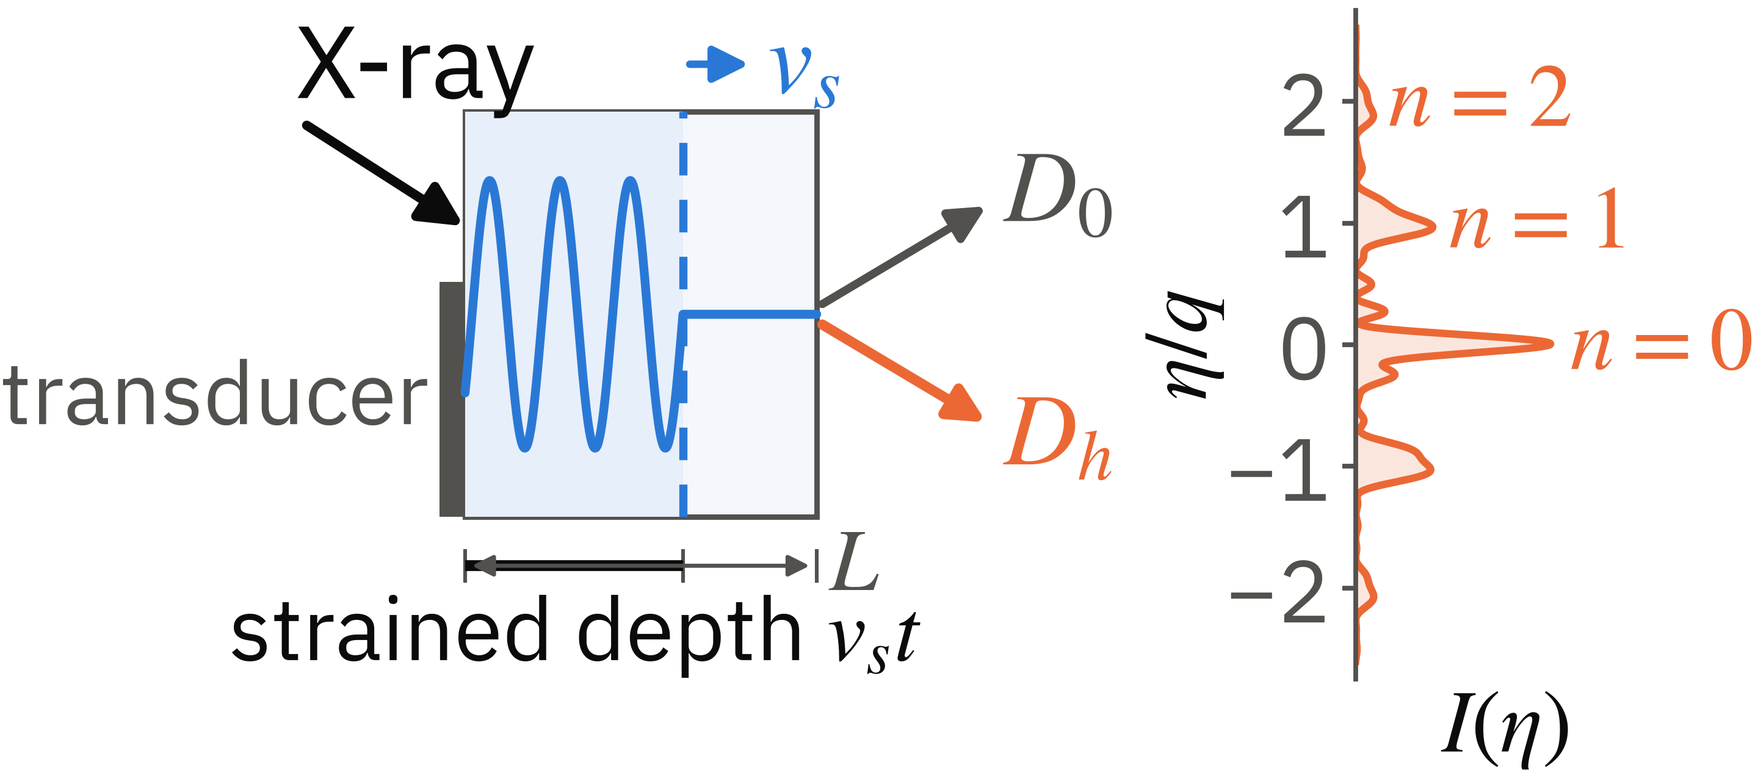
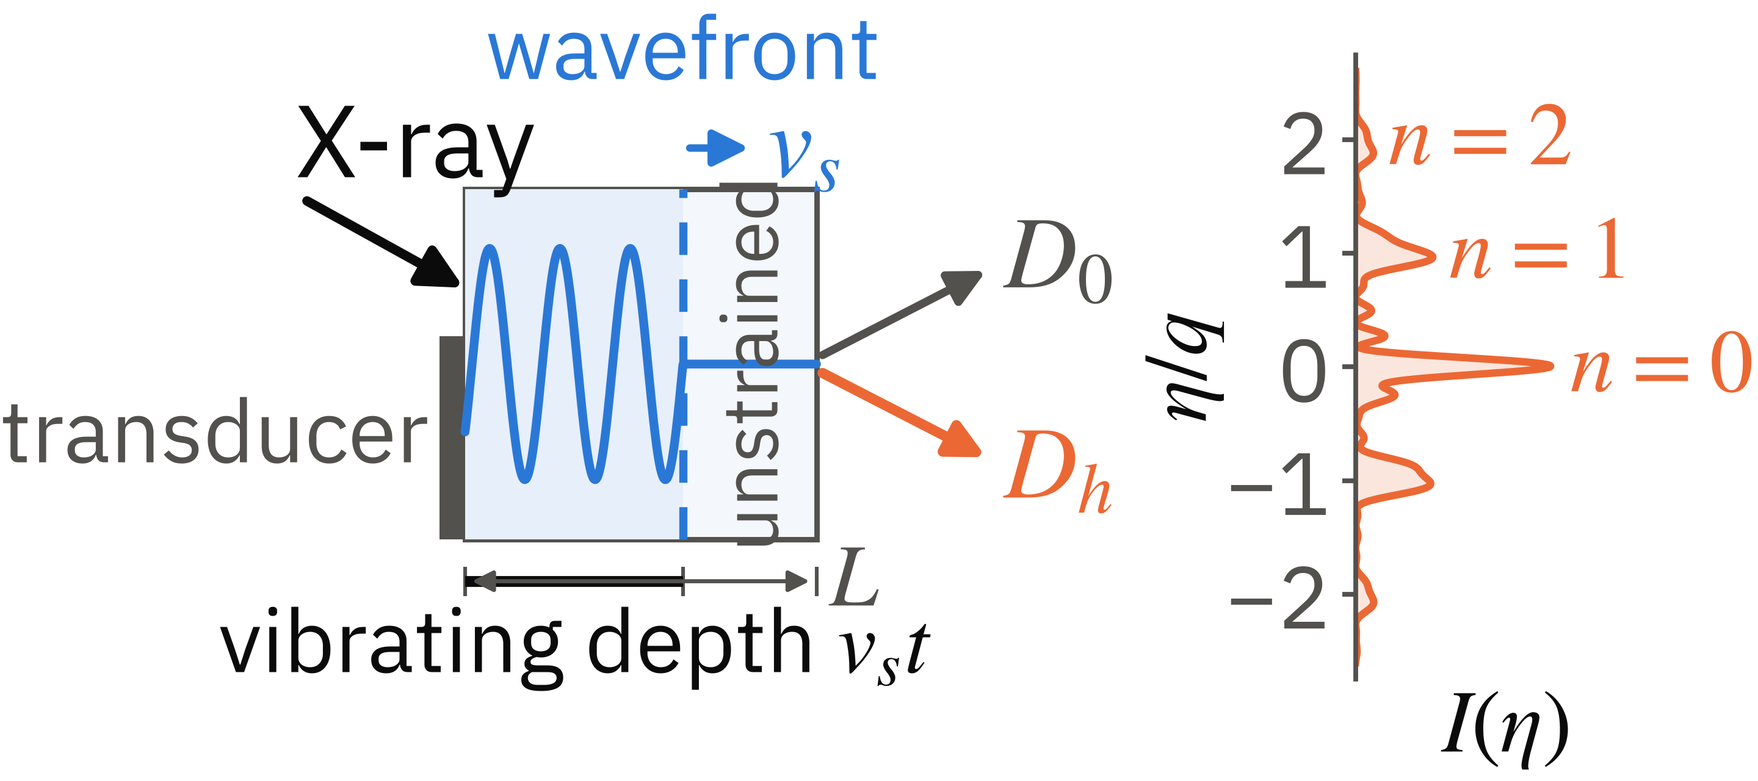
poster: final version with onset strips, method steps and 300 dpi PDF

diff --git a/poster/build.py b/poster/build.py
@@ -33,6 +33,7 @@ Manuscript syntax
   "- text"        bullet                                  "![caption](path)" figure (width = card)
   "%% value | label"  stat tile (consecutive lines form one row)
   "$$ text"       display line: centred, slightly larger, with space around it (equations)
+  "=> a | b | c"  flow diagram: boxes joined by arrows, a loop arrow back to the first box
   {E12}           notebook entry tag (stripped from print, required on every item)
 
 Checks
@@ -89,10 +90,10 @@ NOTEBOOK = ROOT / "notes" / "lab_notebook.md"
 # A0 portrait, same as the ICAMD 2025 poster (841 x 1189 mm). Check the KPS rule before printing.
 SPEC = dict(
     W=841, H=1189, margin=16, gap=14, cols=2, pad=11,
-    header_h=130, stripe_h=5, footer_h=58,
+    header_h=110, stripe_h=5, footer_h=53,
     title_pt=52, authors_pt=30, head_pt=40, badge_pt=30, body_pt=28, callout_pt=29, caption_pt=23,
     stat_pt=36, stat_label_pt=23, eq_pt=30, min_pt=23,
-    leading=1.3, para_gap=6, side_text=0.52, panel_gap=9, fig_gap=4,
+    leading=1.3, para_gap=6, side_text=0.64, panel_gap=8, fig_gap=4,
     navy="#0f2a3a", accent="#e8743b", page="#ffffff", card="#ffffff", edge="#7d868f", key="#fbf1d9",
     ink="#111111", ink2="#4f5560", tint="#f2f4f7",
     stripe=("#3a3a3a", "#e04b3a", "#f08a3c"),
@@ -144,6 +145,11 @@ def parse(text):
                 b = " ".join(b.split())
                 cur["items"].append(dict(kind="bullet", text=TAG.sub("", b).strip(), tags=TAG.findall(b)))
             continue
+        if block.startswith("=>"):
+            t = " ".join(block[2:].split())
+            cur["items"].append(dict(kind="flow", boxes=[b.strip() for b in TAG.sub("", t).split("|")],
+                                     tags=TAG.findall(t)))
+            continue
         if block.startswith("$$"):
             t = " ".join(block[2:].split())
             cur["items"].append(dict(kind="eq", text=TAG.sub("", t).strip(), tags=TAG.findall(t)))
@@ -192,7 +198,7 @@ class Page:
             prev = m.end()
             s, wgt, col = m[0], weight, color
             if s.startswith("**"):
-                s, wgt, col = s[2:-2], "medium", strong or color
+                s, wgt, col = s[2:-2], "semibold", strong or color
             toks.append((s, wgt, col, glue))
         lines, line, lw = [], [], 0.0
         for s, wgt, col, g in toks:
@@ -251,7 +257,7 @@ def bullet(P, it, x, y, w, draw=True):
         mid = y + s["body_pt"] * PT_MM * (1 - XH / 2)       # middle of the x-height of the first line
         P.box(x + 0.5, mid - d / 2, d, d, s["ink"], r=0, z=3)
     return P.flow(it["text"], x, y, w, s["body_pt"], indent=7, draw=draw,
-                  strong=s["accent"]) + s["para_gap"]
+                  strong=s["navy"]) + s["para_gap"]
 
 
 def callout(P, it, x, y, w, draw=True):
@@ -285,7 +291,34 @@ def stats(P, it, x, y, w, draw=True):
 
 def equation(P, it, x, y, w, draw=True):
     s = SPEC
-    return P.flow(it["text"], x, y + 1.5, w, s["eq_pt"], align="center", draw=draw) + s["para_gap"] + 2.5
+    return P.flow(it["text"], x, y + 1, w, s["eq_pt"], align="center", draw=draw) + s["para_gap"] + 1.5
+
+
+def flow_diagram(P, it, x, y, w, draw=True):
+    """Boxes left to right joined by arrows, with a return arrow underneath (one loop per time step)."""
+    s = SPEC
+    n, aw, pt = len(it["boxes"]), 9.0, s["caption_pt"]
+    bw = (w - (n - 1) * aw) / n
+    h = max(P.flow(b, 0, 0, bw - 4, pt, align="center", draw=False) for b in it["boxes"]) + 6
+    if draw:
+        for i, b in enumerate(it["boxes"]):
+            bx = x + i * (bw + aw)
+            P.box(bx, y, bw, h, s["key"], r=0, z=2)
+            th = P.flow(b, 0, 0, bw - 4, pt, align="center", draw=False)
+            P.flow(b, bx + 2, y + (h - th) / 2, bw - 4, pt, align="center")
+            if i < n - 1:
+                P.ax.annotate("", xy=(bx + bw + aw - 0.5, y + h / 2), xytext=(bx + bw + 0.5, y + h / 2),
+                              arrowprops=dict(arrowstyle="-|>", color=s["accent"], lw=2.2, mutation_scale=16),
+                              zorder=3)
+        ly = y + h + 7                                      # loop: next time step
+        P.ax.plot([x + w - bw / 2, x + w - bw / 2, x + bw / 2], [y + h, ly, ly], color=s["ink2"], lw=1.6,
+                  zorder=3)
+        P.ax.annotate("", xy=(x + bw / 2, y + h + 0.3), xytext=(x + bw / 2, ly),
+                      arrowprops=dict(arrowstyle="-|>", color=s["ink2"], lw=1.6, mutation_scale=14), zorder=3)
+        P.ax.text(x + w / 2, ly, r"next $\tilde t$", fontsize=pt - 1, color=s["ink2"], family=FONT,
+                  ha="center", va="center", zorder=4,
+                  bbox=dict(facecolor="white", edgecolor="none", pad=1.5))
+    return y + h + 7 + 4 + s["para_gap"]
 
 
 def text_height(P, items, ix, iw):
@@ -300,9 +333,11 @@ def text_height(P, items, ix, iw):
             y = stats(P, it, ix, y, iw, draw=False)
         elif it["kind"] == "eq":
             y = equation(P, it, ix, y, iw, draw=False)
+        elif it["kind"] == "flow":
+            y = flow_diagram(P, it, ix, y, iw, draw=False)
         elif it["kind"] == "para":
             y = P.flow(it["text"], ix, y, iw, s["body_pt"], draw=False,
-                      strong=s["accent"]) + s["para_gap"]
+                      strong=s["navy"]) + s["para_gap"]
     return y
 
 
@@ -333,7 +368,10 @@ def build(preview_dpi=60, extra=None, save=True):
     ax.add_patch(plt.Rectangle((0, 0), W, H, color=s["page"], lw=0, zorder=0))
     ax.add_patch(plt.Rectangle((0, 0), W, s["header_h"], color=s["navy"], lw=0, zorder=1))
     if (ASSETS / "header_bg.png").exists():             # in the page axes, under the title text
-        ax.imshow(mpimg.imread(ASSETS / "header_bg.png"), extent=(0, W, s["header_h"], 0), aspect="auto",
+        bg = mpimg.imread(ASSETS / "header_bg.png")          # drawn for 130 mm; trim rows, never stretch
+        keep = min(bg.shape[0], round(bg.shape[0] * s["header_h"] / 130))
+        top = (bg.shape[0] - keep) // 2
+        ax.imshow(bg[top:top + keep], extent=(0, W, s["header_h"], 0), aspect="auto",
                   zorder=1.5, interpolation="lanczos")
         ax.set_xlim(0, W)
         ax.set_ylim(H, 0)
@@ -344,11 +382,11 @@ def build(preview_dpi=60, extra=None, save=True):
     logo_w = 0
     if (ASSETS / "logo_ihs.png").exists():                  # same size and inset as on the Oct 15 poster, mirrored
         logo_w = 100
-        P.image(ASSETS / "logo_ihs.png", W - 22.4 - 55.4, 22.1, 55.4, h=79.7)
+        P.image(ASSETS / "logo_ihs.png", W - 22.4 - 55.4, (s["header_h"] - 79.7) / 2, 55.4, h=79.7)
     if meta.get("session"):                                 # kept out of the way, in the empty left corner
         P.flow(meta["session"], M + 6, 14, 150, s["caption_pt"], "#9fb3c2")
     tw = W - 2 * M - 2 * logo_w
-    y = 20 - s["title_pt"] * PT_MM * (s["leading"] - 1)
+    y = 15 - s["title_pt"] * PT_MM * (s["leading"] - 1)
     for line in meta.get("title", "").split("//"):           # "//" in the title = manual line break
         y = P.flow(line.strip(), M + logo_w, y + s["title_pt"] * PT_MM * (s["leading"] - 1), tw, s["title_pt"],
                    "white", weight="semibold", align="center") - s["title_pt"] * PT_MM * 0.35
@@ -450,9 +488,11 @@ def build(preview_dpi=60, extra=None, save=True):
                 y = stats(P, it, ix, y, iw)
             elif it["kind"] == "eq":
                 y = equation(P, it, ix, y, iw)
+            elif it["kind"] == "flow":
+                y = flow_diagram(P, it, ix, y, iw)
             else:
                 y = P.flow(it["text"], ix, y, iw, s["body_pt"],
-                           strong=s["accent"]) + s["para_gap"]
+                           strong=s["navy"]) + s["para_gap"]
         if side:
             y = max(y, fyy - s["fig_gap"])
         y += s["pad"] - s["para_gap"]
@@ -477,7 +517,7 @@ def build(preview_dpi=60, extra=None, save=True):
         plt.close(P.fig)
         return [lf / (n - 1) if n > 1 and lf > 0 else 0.0 for lf, n in zip(left, count)]
     OUT.mkdir(exist_ok=True)
-    P.fig.savefig(OUT / "poster.pdf")
+    P.fig.savefig(OUT / "poster.pdf", dpi=300)       # raster figures are resampled to this; text stays vector
     P.fig.savefig(OUT / "poster.png", dpi=preview_dpi)
     print("column space distributed between panels (mm per gap): " +
           "  ".join(f"{i + 1}: {e:.0f}" for i, e in enumerate(extra)))

diff --git a/explore/make_poster_figs.py b/explore/make_poster_figs.py
@@ -12,6 +12,7 @@ f5  outlook: Fourier weight / kinematic law (Entry 59, e58 data) and the satelli
     first-order forms against full TT (Entry 64, e64_sw.json); reads stored results only
 f6  introductory Bessel coupling weights for a sinusoidal grating
 f7  linear-ramp overshoot map and three TT-checked traces (Entry 67)
+f8  envelope strips for the two result panels: step (Drive, rise = 0) and linear ramp (Entry 67)
 """
 
 from __future__ import annotations
@@ -84,7 +85,7 @@ def f0():
         gridspec_kw=dict(width_ratios=[2.5, 1.0], wspace=0.0))
 
     # ---- left: the crystal in cross-section, with the real phase profile inside it
-    ax.set(xlim=(-3.3, 9.6), ylim=(-0.3, 9.6))
+    ax.set(xlim=(-3.3, 9.6), ylim=(-0.3, 10.4))
     ax.axis("off")
     x0, x1, y0, y1 = 0.0, 6.0, 2.1, 8.1            # slab; depth zeta runs left to right
     xf = x0 + t * (x1 - x0)                         # acoustic front
@@ -98,7 +99,6 @@ def f0():
     amp = 0.33 * (y1 - y0) / max(abs(phi).max(), 1e-9)
     ax.plot(x0 + zz * (x1 - x0), ymid + amp * phi, color=BLUE, lw=2.6, zorder=3,
             solid_capstyle="round")
-    ax.plot([xf, x1], [ymid, ymid], color=BLUE, lw=2.6, zorder=3, solid_capstyle="round")
     ax.plot([xf, xf], [y0, y1], color=BLUE, lw=2.4, ls=(0, (4, 3)), zorder=4)
 
     # transducer on the lower part of the entrance face, so the beam enters clear of it
@@ -107,10 +107,13 @@ def f0():
     ax.text(x0 - 0.62, 0.5 * (y0 + ty), "transducer", ha="right", va="center",
             fontsize=LAB, color=INK2)
 
-    # front marker
+    # front marker, and the two regions it separates
     ax.annotate("", xy=(xf + 1.25, y1 + 0.70), xytext=(xf, y1 + 0.70),
                 arrowprops=dict(arrowstyle="-|>", color=BLUE, lw=2.2, mutation_scale=22))
     ax.text(xf + 1.45, y1 + 0.70, r"$v_s$", color=BLUE, va="center", fontsize=KEY)
+    ax.text(xf, y1 + 1.55, "wavefront", color=BLUE, ha="center", va="bottom", fontsize=LAB)
+    ax.text(0.5 * (xf + x1) + 0.1, ymid, "unstrained", color=INK2, ha="center", va="center",
+            rotation=90, fontsize=LAB - 3)
 
     # one dimension row: the slab thickness, with the filled part picked out on the same line
     yd = y0 - 0.72
@@ -120,7 +123,7 @@ def f0():
         ax.plot([x, x], [yd - 0.22, yd + 0.22], color=INK2, lw=1.1)
     ax.plot([x0, xf], [yd, yd], color=INK, lw=3.2, solid_capstyle="butt")
     ax.text(x1 + 0.22, yd, r"$L$", ha="left", va="center", fontsize=LAB, color=INK2)
-    ax.text(0.5 * (x0 + xf), yd - 0.38, r"strained depth $v_s t$", ha="center", va="top",
+    ax.text(0.5 * (x0 + xf), yd - 0.38, r"vibrating depth $v_s t$", ha="center", va="top",
             fontsize=LAB, color=INK)
 
     # beams: in above the transducer, forward and diffracted out
@@ -321,7 +324,7 @@ def f7():
     style()
     data = np.load(ROOT / "explore" / "nb" / "e67_overshoot.npz")
     summary = json.loads((ROOT / "explore" / "nb" / "e67_overshoot.json").read_text())
-    fig = plt.figure(figsize=(FIG_W, 8.0), constrained_layout=True)
+    fig = plt.figure(figsize=(FIG_W, 10.2), constrained_layout=True)
     grid = fig.add_gridspec(2, 3, height_ratios=[1.4, 1])
     ax = fig.add_subplot(grid[0, :])
     im = ax.pcolormesh(data["S"], data["rise"], data["excess"], shading="nearest",
@@ -363,6 +366,37 @@ def f7():
     print("wrote", OUT / "f7_overshoot.png")
 
 
+def f8():
+    """Envelope strips that open the two result panels, drawn from the envelopes the results used:
+    the step of `Drive` (rise = 0, Entries 1 and 9) and the linear ramp of memory_drive.ramp (Entry 67)."""
+    sys.path.insert(0, str(ROOT / "explore" / "nb"))
+    from memory_drive import ramp
+
+    style()
+    s = np.linspace(-0.6, 2.6, 801)
+    for name, A, color, text in (
+            ("f8_onset_step", Drive(S=1.0, alpha_ac=20.0).envelope(s), BLUE,
+             r"Sudden onset: $A(s)=1$ for $s\geq0$,  $s=\tilde t-\zeta$"),
+            ("f8_onset_ramp", ramp(1.5)(s) * (s >= 0), ORANGE,
+             r"Gradual onset: $A(s)=\min(s/T_{rise},\,1)$ for $s\geq0$")):
+        fig = plt.figure(figsize=(FIG_W, 0.95))
+        ax = fig.add_axes([0.035, 0.30, 0.20, 0.62])
+        ax.plot(s, A, color=color, lw=3.2)
+        ax.set(xlim=(-0.6, 2.6), ylim=(-0.15, 1.75), xticks=[0], yticks=[0, 1])
+        ax.set_xticklabels([r"$0$"])
+        ax.tick_params(labelsize=SMALL - 2, length=4, pad=2)
+        ax.text(1.03, 0.04, r"$s$", transform=ax.transAxes, fontsize=SMALL - 2, va="center")
+        ax.set_ylabel(r"$A$", fontsize=SMALL - 2, rotation=0, labelpad=10, va="center")
+        if "ramp" in name:
+            ax.annotate("", xy=(1.5, 1.25), xytext=(0, 1.25),
+                        arrowprops=dict(arrowstyle="<|-|>", color=INK2, lw=1.2, mutation_scale=12))
+            ax.text(0.75, 1.3, r"$T_{rise}$", ha="center", va="bottom", fontsize=SMALL - 2, color=INK2)
+        fig.text(0.27, 0.55, text, fontsize=BIG, va="center", color=INK)
+        OUT.mkdir(parents=True, exist_ok=True)
+        fig.savefig(OUT / f"{name}.png")
+        print("wrote", OUT / f"{name}.png")
+
+
 if __name__ == "__main__":
-    for name in (sys.argv[1:] or ["f0", "f1", "f2", "f3", "f4", "f5", "f6", "f7"]):
+    for name in (sys.argv[1:] or ["f0", "f1", "f2", "f3", "f4", "f5", "f6", "f7", "f8"]):
         globals()[name]()

diff --git a/poster/poster.md b/poster/poster.md
@@ -8,89 +8,85 @@ footer: This work was supported by the National Research Foundation of Korea gra
 
 <!--
 Printed text source; build with python poster/build.py.
-Reading order: full-width background and question; left column theory, method and
-result 1; right column result 2, solver checks and conclusion. Numbers follow notes/tasks/poster_facts.md.
+Reading order: full-width introduction; left column model, method and formation dynamics;
+right column overshoot and conclusions. Numbers follow notes/tasks/poster_facts.md.
 -->
 
 @wide
 
-## Background: acoustic satellites and the question
+## Introduction
 
-**Acoustic satellites.** Sound displaces the lattice planes by $u$ and shifts the diffracted X-ray phase by $\phi=h u$. This moving phase grating adds satellites $n=\pm1,\pm2,\dots$ to the rocking curve $I(\eta)$ at $\eta=nq$, $q=2\pi L/\Lambda_{ac}$ ($\eta$: angle deviation, $L$: thickness, $\Lambda_{ac}$: acoustic wavelength). {E0}
+**Motivation.** Time-resolved X-ray diffraction can follow GHz acoustic waves in crystals: satellites form over a few ns, much longer than 50–100 ps synchrotron pulses, and a strain pulse entering a Laue crystal has been used to switch X-rays (DeCamp et al., Nature 413, 825 (2001)). {E6}{E7}{E21}
 
-**Steady state (known).** With sound in the whole crystal, $e^{i\phi}=\Sigma_n J_n(S)\,e^{in(q\zeta-q\tilde t)}$, $S=h u_0$. Satellite $n$ couples with strength $\alpha\left|J_n(S)\right|$, $\alpha=L/\Lambda_P$ ($\Lambda_P$: Pendellösung length). $J_n$ is a coupling weight; multiple scattering sets the intensity. Multi-wave theory: Polikarpov & Skadorov, phys. stat. sol. (b) 143, 11 (1987). {E0}{E7}{E29}
+**Acoustic satellites.** A displacement $u$ shifts the phase of the diffracted wave by $\phi=hu$, so a travelling acoustic wave acts as a moving phase grating with satellites $n=\pm1,\pm2,\dots$ at $\eta=nq$, $q=2\pi L/\Lambda_{ac}$ ($\eta$: angular deviation, $L$: thickness, $\Lambda_{ac}$: acoustic wavelength). In a filled crystal $e^{i\phi}=\Sigma_nJ_n(S)\,e^{in(q\zeta-q\tilde t)}$ with $S=hu_0$, and satellite $n$ couples with strength $\alpha\left|J_n(S)\right|$, $\alpha=L/\Lambda_P$ ($\Lambda_P$: Pendellösung length); its intensity follows from multiple scattering (Polikarpov & Skadorov, phys. stat. sol. (b) 143, 11 (1987)). {E0}{E7}{E29}
 
-**Before the steady state.** The front moves at $v_s$. For $t<t_{tr}=L/v_s$ only the depth $v_s t$ vibrates. {E0}{E7}
-
-> **Question.** How do the satellites form while the front crosses the crystal, and how does a gradual turn-on change their intensity in time? {E0}{E28}{E33}
+> **This work.** The Bessel-weighted coupling describes a crystal already filled with sound. While the wavefront enters ($t<t_{tr}=L/v_s$), the vibrating depth $v_st$ grows and the diffraction is dynamical, so we compute time-resolved rocking curves directly from the TT equations. {E0}{E7}{E28}{E33}
 
 ![](figures/poster/f0_scheme.png){E0}
 
 ![](figures/poster/f6_background.png){E0}{E7}
 
-## Theory and numerical method
+## Theoretical Model and Numerical Methods
 
-**1. Two-beam Takagi–Taupin (TT) equations.** Amplitudes $D_0$, $D_h$ vs depth $\zeta=z/L\in[0,1]$; $\eta$ in units of $1/L$: {E0}
+**1 Two-beam diffraction.** The X-ray field near a Bragg reflection consists of the transmitted wave $D_0$ and the diffracted wave $D_h$, which exchange intensity with depth $\zeta=z/L\in[0,1]$. They obey the coupled Takagi–Taupin (TT) equations: {E0}
 
 $$ $dD_0/d\zeta = i\pi\alpha\,e^{+i\phi}D_h,\qquad dD_h/d\zeta = i\pi\alpha\,e^{-i\phi}D_0 + i\eta D_h$ {E0}
 
-**2. Travelling sound as a phase field,** $\tilde t=t/t_{tr}$: {E0}
+$\pi\alpha$ couples the beams, $i\eta D_h$ is the angular detuning ($\eta$ in units of $1/L$), and the lattice displacement enters only as the phase $e^{\pm i\phi}$ of the coupling. {E0}
+
+**2 Travelling acoustic deformation,** with $\tilde t=t/t_{tr}$: {E0}
 
 $$ $\phi(\zeta,\tilde t)=S\,A(\tilde t-\zeta)\,\sin(q\zeta-q\tilde t)$ {E0}
 
-Causal envelope: $A=0$ for $\zeta>\tilde t$, so only the layer behind the front is modulated. Step $A$: sudden turn-on; linear ramp over $T_{rise}$: gradual. {E0}{E28}
+Causal envelope: $A=0$ ahead of the front ($\zeta>\tilde t$); its profile sets the onset. {E0}{E28}
 
-**3. Laue: initial-value problem.** $D_0(0)=1$, $D_h(0)=0$; integrate to $\zeta=1$, $I=\left|D_h(1)\right|^2$. {E0}
+**3 Numerical solution.** The X-ray transit $L/c\approx1$ ps is 0.2 % of a 500 ps acoustic period (Si 440, 30 keV, 2 GHz, $L=296$ μm), so $\phi$ is held fixed at each $\tilde t$ (quasi-static). {E62}
 
-**4. Bragg: Riccati form.** $D_h$ exits through the entrance face, so $D_0(0)=1$, $D_h(1)=0$ sit on opposite faces. For $R=D_h/D_0$: {E0}
+- Laue: $D_0(0)=1$, $D_h(0)=0$ at the entrance; integrate forward to $\zeta=1$. {E0}
+- Bragg: $D_h$ exits at the entrance, so $D_0(0)=1$, $D_h(1)=0$ sit on opposite faces; $R=D_h/D_0$ obeys a Riccati equation, integrated backward (stable): {E0}
 
 $$ $dR/d\zeta=-i\pi\alpha\,e^{-i\phi}-i\eta R-i\pi\alpha\,e^{+i\phi}R^2,\qquad R(1)=0$ {E0}
 
-Integrated backward from $\zeta=1$ (stable): no shooting; $I=\left|R(0)\right|^2$. {E0}
+- Both: fixed-step RK4 in depth, $\geq20$ steps per fastest oscillation. {E0}{E31}
 
-**5. RK4 in depth.** Fixed step, $\geq 20$ per fastest oscillation; all $\eta$ in one sweep. {E0}{E31}
+**4 Calculated quantities.** $I(\eta,\tilde t)=\left|D_h(1)\right|^2$ (Laue) or $\left|R(0)\right|^2$ (Bragg), for every $\eta$ and $\tilde t$: {E0}
 
-**6. Quasi-static time.** X-ray transit $L/c\approx1$ ps is 0.2 % of a 500 ps acoustic period (worst case: Si 440, 30 keV, 2 GHz, $L=296$ μm), so each time step is a frozen snapshot: {E62}
+=> time $\tilde t$ | fix $\phi(\zeta,\tilde t)$ | RK4 in $\zeta$ (all $\eta$) | $I(\eta,\tilde t)$ | $I_n(\tilde t)=I(nq,\tilde t)$ {E0}{E62}
 
-> $\tilde t\ \rightarrow\ \phi(\zeta,\tilde t)\ \rightarrow\ $ RK4 in $\zeta$ $\rightarrow\ I(\eta,\tilde t)\ \rightarrow$ next $\tilde t$ {E0}{E62}
+**Numerical verification.** The solver was checked against analytical solutions, step-size convergence and an independent Floquet calculation. {E0}{E42}
 
-## Result 1: satellite formation (sudden turn-on)
+## Formation Dynamics of Acoustic Satellites
 
-Centre intensity of satellite $n$ while the front crosses. The filled layer acts as a uniform crystal of thickness $\tilde t$ and coupling $\alpha_n=\alpha\left|J_n(S)\right|$: {E1}{E9}
+![](figures/poster/f8_onset_step.png){E0}
+
+With the satellites treated as independent, the strained layer acts as a uniform crystal of thickness $\tilde t$ and coupling $\alpha_n=\alpha\left|J_n(S)\right|$: {E1}{E9}
 
 $$ $I_n=\sin^2(\pi\alpha_n\tilde t)$ (Laue), $\qquad I_n=\tanh^2(\pi\alpha_n\tilde t)$ (Bragg) {E1}{E9}
 
-Time scale $\tau_n=\Lambda_P/(v_s\left|J_n(S)\right|)$, independent of $L$. The order follows $\left|J_n\right|$, not $n$: at $S=3$ the first maxima come as $n=2,1,3$. {E1}{E6}
+The formation time $\tau_n=\Lambda_P/(v_s\left|J_n(S)\right|)$ is independent of $L$, and the order follows $\left|J_n(S)\right|$ rather than $n$ (at $S=3$: $n=2,1,3$). {E1}{E6}
 
-![Points: full TT for four $(S,\alpha,n)$. Lines: the formulas, **no fitted parameter**. Over the notebook test cases ($\alpha_{ac}=20$) the deviation is at most 0.079 (Laue) and 0.043 (Bragg).](figures/poster/f1_collapse.png){E1}{E9}
-
-**Validity** (approximation, not solver error): satellites are treated as independent; centre-intensity error $\approx0.9\,\Lambda_{ac}/\Lambda_P$ at $S=1.5$, $\leq0.03$ for $\Lambda_{ac}/\Lambda_P\leq0.05$ (30 random cases). {E19}{E26}
+![Points: full TT; lines: expressions above, without fitting parameters. Deviations (at most 0.079 Laue, 0.043 Bragg; notebook cases, $\alpha_{ac}=20$) come from the independent-satellite approximation, not the solver: $\approx0.9\,\Lambda_{ac}/\Lambda_P$ at $S=1.5$, $\leq0.03$ for $\Lambda_{ac}/\Lambda_P\leq0.05$.](figures/poster/f1_collapse.png){E1}{E9}{E19}{E26}
 
 @column
 
-## Result 2: transient overshoot (gradual turn-on)
+## Transient Intensity Overshoot
 
-During a ramp, each depth holds a different amplitude, and the satellite sums their couplings: {E5}{E28}
+![](figures/poster/f8_onset_ramp.png){E28}{E67}
+
+The amplitude rises linearly to $S$ over $T_{rise}$ and is then held. The depth-dependent amplitude gives satellite $n$ a depth-averaged coupling: {E5}{E28}
 
 $$ $\Theta_n(\tilde t)=\int_0^1 J_n(S\,A(\tilde t-\zeta))\,d\zeta,\qquad I_n\approx\sin^2(\pi\alpha\,\Theta_n)$ (Laue) {E5}{E28}
 
-**Overshoot**: $\Delta I=I_{max}-I_{steady}>0$ (incident-intensity units). Scan of $S$ and $T_{rise}$; first Laue satellite, $L/\Lambda_P=0.5$. {E67}
+Overshoot: $\Delta I=I_{max}-I_{steady}$ in incident-intensity units, for the first Laue satellite at $L/\Lambda_P=0.5$, $0.5\leq S\leq6$, $0.05\leq T_{rise}/t_{tr}\leq4$. {E67}
 
-![Top: $\Delta I$ from the $\Theta_n$ law, 11,211 conditions, $\Lambda_{ac}/\Lambda_P=0.0125$. Bottom: A–C traces; lines, law; dots, full TT; dashed, steady value. Phase-averaged centre intensity.](figures/poster/f7_overshoot.png){E67}
+![Top: $\Delta I$ from $\Theta_n$, 11,211 conditions, $\Lambda_{ac}/\Lambda_P=0.0125$. Bottom: lines, $\Theta_n$; dots, full TT; dashed, steady state.](figures/poster/f7_overshoot.png){E67}
 
-- A ($S=1.5$): monotonic. B ($S=3$): the ramp passes larger $\left|J_1\right|$, so the peak is 1.69 × the final value. C (near $J_1=0$): 0.53 during turn-on, $1.3\times10^{-4}$ at the end. {E15}{E28}{E67}
-- Largest $\Delta I$: 0.603 at the scan edge $T_{rise}=4t_{tr}$ (bound 0.627). Full TT at five points agrees with the law to $8\times10^{-5}$. {E28}{E67}
+- A ($S=1.5$): monotonic. B ($S=3$): $\left|J_1\right|$ is larger during the ramp than at the end, and the maximum is 1.69 times the final value. C (near $J_1=0$): 0.53 during the ramp, $1.3\times10^{-4}$ at the end. {E15}{E28}{E67}
+- Largest $\Delta I$ in the scanned range: 0.603 at $T_{rise}=4t_{tr}$, still rising toward the quasi-static limit 0.627. Full TT at five points agrees with $\Theta_n$ to $8\times10^{-5}$. {E28}{E67}
 
-## Numerical checks of the TT solver
+## Conclusions
 
-%% $<10^{-9}$ | vs closed form, no sound {E0}
-%% 4th order | RK4 convergence in depth step {E0}
-%% $\sim10^{-5}$ | vs Floquet solver, filled crystal {E42}
-
-- Also lossless, $\left|D_0\right|^2+\left|D_h\right|^2=1$; satellites at $\eta=nq$; doubling the depth steps changes the overshoot traces by $\leq 3.4\times10^{-5}$. Solver accuracy only; the limits of the simple laws are in panel 3. {E0}{E42}{E67}
-
-## Conclusion
-
-- We calculated satellite formation behind a travelling acoustic front with TT equations, Laue and Bragg. Each satellite forms on its own time scale, $\tau_n\propto1/\left|J_n(S)\right|$. {E0}{E1}{E9}
-- A gradual turn-on can give non-monotonic growth and overshoot; the steady-state intensity alone does not describe the transient. {E28}{E67}
-- Calculation only, not compared with experiment. Two-beam, symmetric, non-absorbing, quasi-static; the simple laws need small $\Lambda_{ac}/\Lambda_P$. Proposed, untested: Si 440, 17–30 keV, 1–2 GHz, $\tau_1\approx17$–30 ns. {E0}{E20}{E54}{E62}
+- We calculated the formation of acoustic diffraction satellites while an acoustic wavefront propagates through the crystal, using the two-beam Takagi–Taupin equations. {E0}{E1}{E9}
+- The simulations show satellite-dependent formation times, $\tau_n\propto1/\left|J_n(S)\right|$, and a transient intensity overshoot for finite acoustic rise times. {E1}{E9}{E67}
+- The steady-state satellite intensity alone does not determine its transient evolution. {E28}{E67}
+- Scope: two beams, symmetric geometry, no absorption, quasi-static diffraction; the simple expressions require small $\Lambda_{ac}/\Lambda_P$. No experimental comparison yet. {E0}{E20}{E62}
